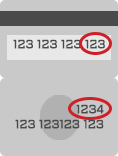
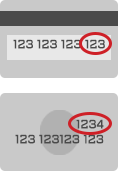
1.10
css update

diff --git a/skin/frontend/base/default/securesubmit/css/hps-styles.css b/skin/frontend/base/default/securesubmit/css/hps-styles.css
@@ -13,6 +13,9 @@
   body[class*="checkout-multishipping-"] .buttons-set .back-link {
     display: block;
   }
+  #dd_method_hps_securesubmit {
+ max-width:350px;
+}
 }
 
 @media only screen and (max-width: 770px) {
@@ -43,6 +46,15 @@
   }
   .buttons-set .required {
     display: none;
+  }
+  #checkout-step-payment #dd_method_hps_securesubmit input[type=tel] {
+   /* max-width:365px !important;*/
+  }
+  #hps_securesubmit_gift_card {
+   /* max-width:365px !important; */
+  }
+  #payment_form_hps_securesubmit .card-menu-item label {
+    font-size:13px;
   }
 }
 /* =========================================
@@ -246,7 +258,7 @@
   height:25px;
   margin:auto;
   float:right;
-  margin-top:-2.5em;
+margin-top:7px;
 }
 /*card icons*/
 .icon-visa-form {
@@ -286,7 +298,7 @@
   margin-left:-10px;
   display:inline-block;
   float:right;
-
+  margin-top:6px;
 }
 .icon-disc-form {
   background-image:url(../images/ss-saved-discover@2x.png);
@@ -433,6 +445,7 @@ body.customer-account .data-table span.a-center {
   display:inline;
  /* border-right:1px solid #e3e3e3; */
   padding:6px 19px 9px 0px;
+  vertical-align:-webkit-baseline-middle;
 }
 #credit_cards a:hover  {
   text-decoration:none;
@@ -453,10 +466,10 @@ body.customer-account .data-table span.a-center {
 #hps_securesubmit_cc_form .icon-sc{
   background-image:url(../images/ss-cvv@2x.png);
   background-repeat:no-repeat;
-  background-size:65px 76px;
-  background-position:297px 0px; /*FOR AMEX: background-position: 297px -38px;*/
+  background-size:55px 82px;
+  background-position:308px 0px; /*FOR AMEX: background-position: 297px -38px;*/
   display:inline-block;
-  float:right;
+  /*float:right;*/
 }
 
 #payment_form_hps_securesubmit .card-menu-item label {
@@ -473,17 +486,22 @@ body.customer-account .data-table span.a-center {
   vertical-align:super;
 }
 .form-list input.input-text{
-  max-width:none;
 }
 .cc-info {
   display:inline;
-}
-.sp-methods input.cvv {
-  width:none;
+
+
 }
 #hps_securesubmit_giftcard_pin {
   margin-top:10px;
   margin-bottom:10px;
+}
+.v-fix {
+
+
+}
+#checkout-step-payment #dd_method_hps_securesubmit input[type=tel]:focus {
+  border:1px solid #3989e3;
 }
 
 #payment_form_hps_securesubmit iframe {
